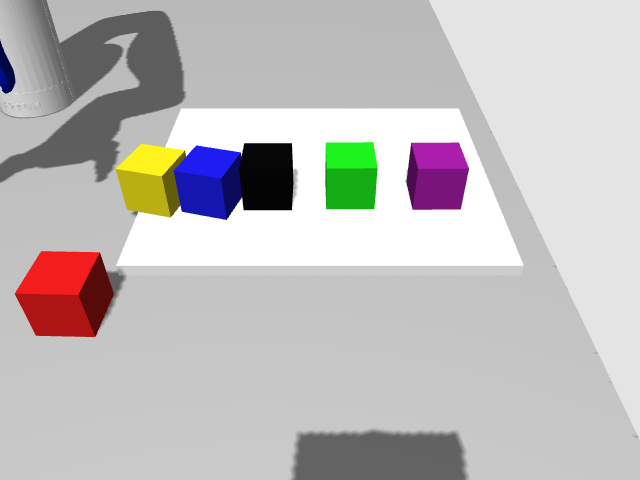
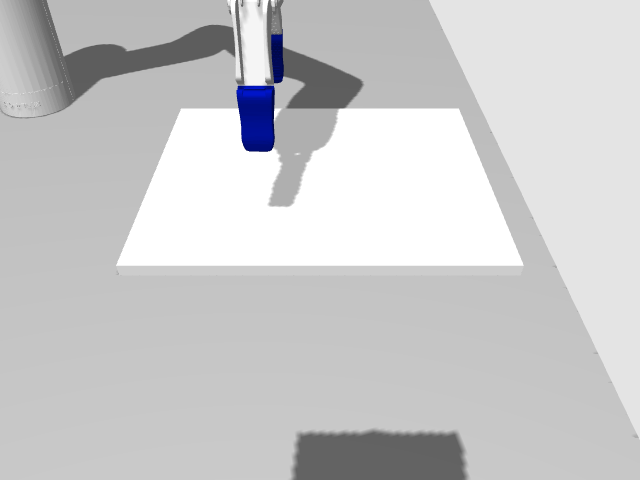
update ai mode logging

diff --git a/mastermind_ws/src/mastermind/mastermind/src/players/player2.py b/mastermind_ws/src/mastermind/mastermind/src/players/player2.py
@@ -75,8 +75,8 @@ Output your guess in JSON format.
 
         parsed: ResponseFormat = response.output_parsed
 
-        guess_list = [g.value for g in parsed.guess]
-        return guess_list
+        # guess_list = [g.value for g in parsed.guess]
+        return parsed.reasoning, [g.value for g in parsed.guess]
 
 
 
@@ -155,7 +155,9 @@ class Player2(Node):
 
     def ai_loop(self):
         while not self.stop_flag:
-            color_list = self.client.guess()
+            reasoning, color_list = self.client.guess()
+            self.get_logger().info(reasoning)
+            self.get_logger().info(f"We are going to guess list {str(color_list)}")
             self.check_and_publish_color(color_list)
 
 
